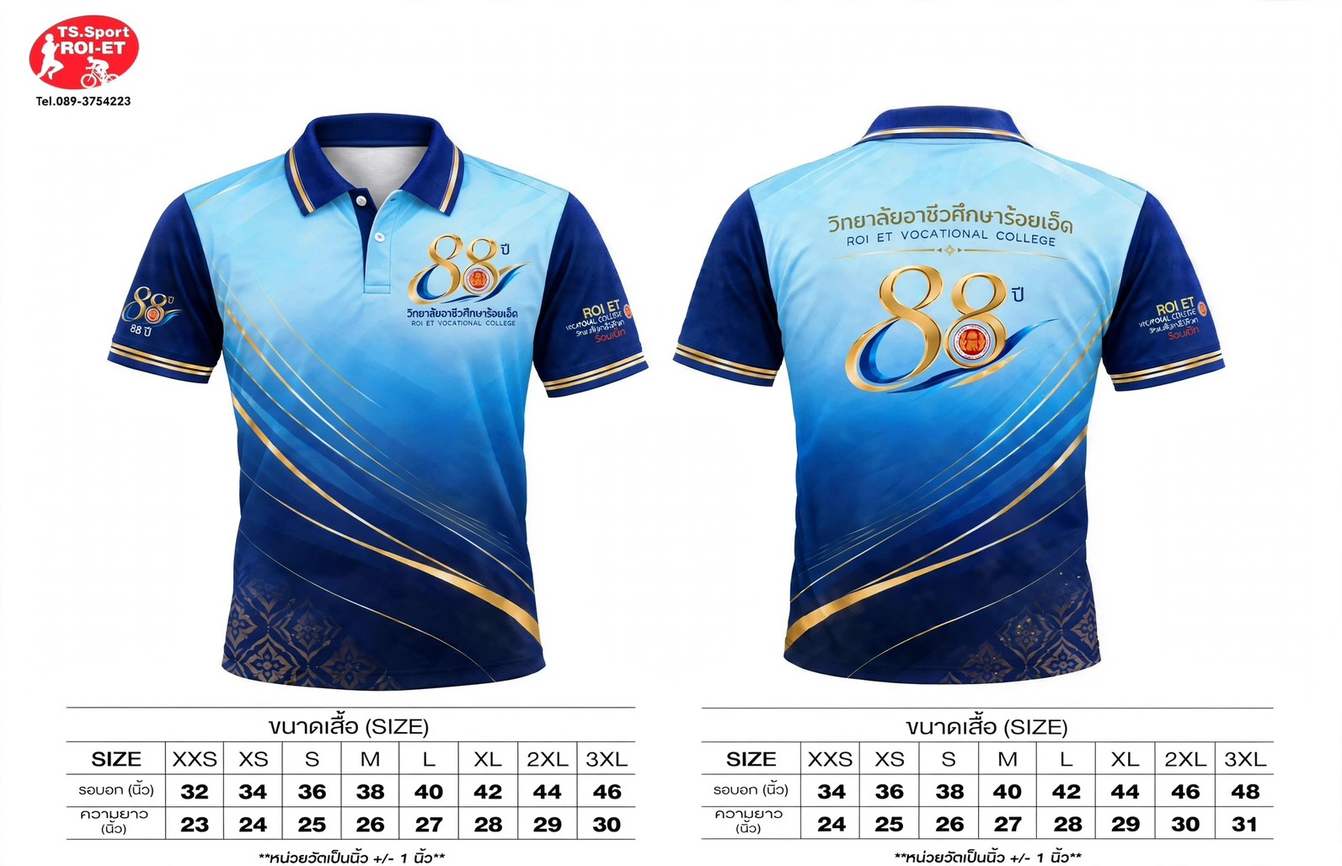
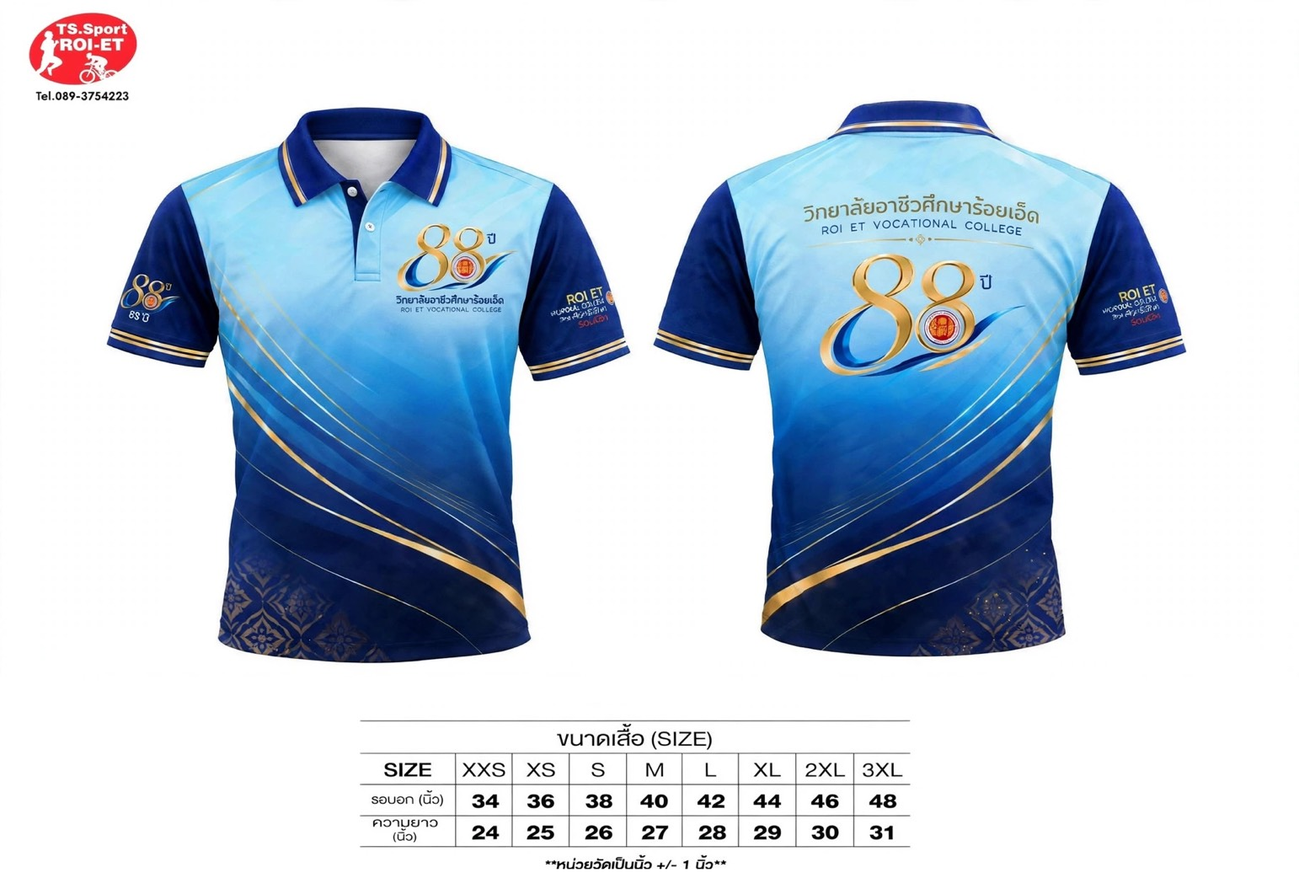
One cut for everyone: drop the men's/women's choice
The shop's new size chart has a single cut (chest 34-48, length 24-31 in).
Each shirt now has a size only; the results and Excel count shirts by size.
Size chart images updated for both designs.

Changed region(s): [[0.0623, 0.0934, 0.965, 1.0], [0.0, 0.0, 0.1245, 0.1245]]

diff --git a/app.js b/app.js
@@ -5,23 +5,19 @@ const DEFAULT_CONFIG = { votingOpen: true, allowChangeVote: true, hideResults: f
 const POLL_MS = 10000;
 
 const SIZES = ['XXS', 'XS', 'S', 'M', 'L', 'XL', '2XL', '3XL'];
-const CHART = {
-  m: { chest: [34, 36, 38, 40, 42, 44, 46, 48], len: [24, 25, 26, 27, 28, 29, 30, 31] },
-  f: { chest: [32, 34, 36, 38, 40, 42, 44, 46], len: [23, 24, 25, 26, 27, 28, 29, 30] }
-};
-const CUTS = [{ id: 'm', label: 'ทรงชาย' }, { id: 'f', label: 'ทรงหญิง' }];
+// One cut for everyone (from the shop's size chart), in inches.
+const CHART = { chest: [34, 36, 38, 40, 42, 44, 46, 48], len: [24, 25, 26, 27, 28, 29, 30, 31] };
 const DESIGNS = [
   { id: '1', label: 'แบบที่ 1', tone: 'น้ำเงินเข้ม ชายเสื้อลายไทยสีทอง', front: 'assets/d2-front.png', back: 'assets/d2-back.png', board: 'assets/d2-board.jpg', chart: 'assets/d2-size.jpg' },
   { id: '2', label: 'แบบที่ 2', tone: 'ฟ้า–ขาว เส้นทองพลิ้ว', front: 'assets/d1-front.png', back: 'assets/d1-back.png', board: 'assets/d1-board.jpg', chart: 'assets/d1-size.jpg' }
 ];
 const ORDER = ['ฝ่ายบริหาร', 'ผู้ช่วยศาสตราจารย์', 'แผนกวิชาสามัญสัมพันธ์', 'แผนกวิชาการบัญชี', 'แผนกวิชาการตลาด', 'แผนกวิชาโลจิสติกส์', 'แผนกวิชาเทคโนโลยีธุรกิจดิจิทัล', 'แผนกวิชาเทคโนโลยีสารสนเทศ', 'แผนกวิชาวิจิตรศิลป์', 'แผนกวิชาออกแบบ', 'แผนกวิชาคอมพิวเตอร์กราฟิก', 'แผนกวิชาแฟชั่นและสิ่งทอ', 'แผนกวิชาคหกรรมศาสตร์', 'แผนกวิชาอาหารและโภชนาการ', 'แผนกวิชาการโรงแรม', 'แผนกวิชาการท่องเที่ยว', 'ลูกจ้างชั่วคราว', 'นักการ', 'แม่บ้าน', 'พนักงานขับรถ', 'ยามรักษาการ'];
 const GROUP_LABEL = { 'ลูกจ้างชั่วคราว': 'เจ้าหน้าที่ธุรการ (ลูกจ้างชั่วคราว)' };
-// The size tape spans 16 inches: one inch either side of the cut's smallest and largest chest.
+// The size tape spans 16 inches: one inch either side of the smallest and largest chest.
 const TAPE_SPAN = 16;
 
 const norm = s => (s || '').replace(/\s+/g, '').toLowerCase();
 const fmtTime = t => new Date(t).toLocaleString('th-TH', { day: 'numeric', month: 'short', year: '2-digit', hour: '2-digit', minute: '2-digit' });
-const cutLabel = c => c === 'f' ? 'หญิง' : 'ชาย';
 const dLabel = id => (DESIGNS.find(d => d.id === id) || {}).label || '—';
 const MAX_EXTRAS = 9;
 const digits = s => String(s || '').replace(/\D/g, '');
@@ -29,11 +25,11 @@ const validPhone = s => /^\d{9,10}$/.test(digits(s));
 // Same rule as the server for names that are not on the staff list.
 const OTHER_DEPT = 'อื่นๆ';
 const validName = s => /^[\p{L}\p{M}][\p{L}\p{M} .()-]{3,79}$/u.test(s) && /\S\s+\S/.test(s);
-// Every shirt in a vote: the first (free) then the paid extras. Shirts have a cut and size only;
+// Every shirt in a vote: the first (free) then the paid extras. Shirts have a size only;
 // the design is the vote. Older votes stored only a quantity, so their extras repeat the first shirt.
-const extrasOf = v => v.extras || Array.from({ length: Math.max(0, (v.qty || 1) - 1) }, () => ({ cut: v.cut, size: v.size }));
-const shirtsOf = v => [{ cut: v.cut, size: v.size }, ...extrasOf(v)];
-const shirtText = x => `${cutLabel(x.cut)} ${x.size}`;
+const extrasOf = v => v.extras || Array.from({ length: Math.max(0, (v.qty || 1) - 1) }, () => ({ size: v.size }));
+const shirtsOf = v => [{ size: v.size }, ...extrasOf(v)];
+const shirtText = x => `ไซซ์ ${x.size}`;
 const XLSX_URL = 'https://cdnjs.cloudflare.com/ajax/libs/xlsx/0.18.5/xlsx.full.min.js';
 let xlsxLoading = null;
 const loadXlsx = () => xlsxLoading || (xlsxLoading = new Promise((resolve, reject) => {
@@ -45,7 +41,7 @@ const loadXlsx = () => xlsxLoading || (xlsxLoading = new Promise((resolve, rejec
 }));
 
 class App extends Component {
-  state = { tab: 'vote', staff: [], votes: [], query: '', open: false, hl: 0, person: null, phone: '', note: '', extra: false, design: null, side: 'front', cut: null, size: null, extras: [], done: null, confirm: false, confirmClear: false, clearing: false, adminMsg: '', lightbox: null, rq: '', mode: 'voted', cfg: DEFAULT_CONFIG, saving: false, error: '', names: [], prevVote: null, unlockErr: '', unlocking: false, adminKey: '', askKey: false, keyInput: '', keyError: '' };
+  state = { tab: 'vote', staff: [], votes: [], query: '', open: false, hl: 0, person: null, phone: '', note: '', extra: false, design: null, side: 'front', size: null, extras: [], done: null, confirm: false, confirmClear: false, clearing: false, adminMsg: '', lightbox: null, rq: '', mode: 'voted', cfg: DEFAULT_CONFIG, saving: false, error: '', names: [], prevVote: null, unlockErr: '', unlocking: false, adminKey: '', askKey: false, keyInput: '', keyError: '' };
 
   componentDidMount() {
     fetch('data/staff.json').then(r => r.json()).then(rows => {
@@ -147,11 +143,10 @@ class App extends Component {
     const out = [];
     st.forEach(p => {
       if (rnd() < 0.62) {
-        const cut = rnd() < 0.6 ? 'f' : 'm';
         const si = Math.min(7, Math.max(0, Math.round(3 + (rnd() + rnd() - 1) * 3)));
         const design = rnd() < 0.57 ? '2' : '1';
-        const extras = rnd() < 0.88 ? [] : [{ cut: rnd() < 0.5 ? 'm' : 'f', size: SIZES[Math.max(0, si - 1)] }];
-        out.push({ name: p.name, dept: p.dept, design, cut, size: SIZES[si], extras, qty: 1 + extras.length, phone: '', note: '', time: Date.now() - Math.floor(rnd() * 5 * 864e5) });
+        const extras = rnd() < 0.88 ? [] : [{ size: SIZES[Math.max(0, si - 1)] }];
+        out.push({ name: p.name, dept: p.dept, design, size: SIZES[si], extras, qty: 1 + extras.length, phone: '', note: '', time: Date.now() - Math.floor(rnd() * 5 * 864e5) });
       }
     });
     this._sample = out; this._sampleN = st.length; return out;
@@ -162,7 +157,7 @@ class App extends Component {
     // Someone who already voted must give their phone number before the old vote is shown (see unlockVote).
     // Clear choices that came from someone else's opened vote, or that would hide behind the phone check.
     const clear = this.state.prevVote || this.state.names.includes(p.name)
-      ? { design: null, cut: null, size: null, extras: [], note: '', extra: false } : {};
+      ? { design: null, size: null, extras: [], note: '', extra: false } : {};
     // Keep a phone number typed before the name, unless it belonged to someone else's opened vote.
     const phone = this.state.prevVote ? '' : this.state.phone;
     this.setState({ person: p, query: '', open: false, prevVote: null, phone, unlockErr: '', error: '', ...clear });
@@ -180,7 +175,7 @@ class App extends Component {
       const body = await r.json().catch(() => ({}));
       if (!r.ok) throw new Error(body.error || 'ตรวจสอบไม่สำเร็จ');
       const v = body.vote;
-      this.setState({ unlocking: false, prevVote: v, design: v.design, cut: v.cut, size: v.size, extras: extrasOf(v), note: v.note || '', extra: !!v.note });
+      this.setState({ unlocking: false, prevVote: v, design: v.design, size: v.size, extras: extrasOf(v), note: v.note || '', extra: !!v.note });
     } catch (e) {
       this.setState({ unlocking: false, unlockErr: e.message === 'Failed to fetch' ? 'เชื่อมต่อเซิร์ฟเวอร์ไม่ได้ ลองอีกครั้ง' : e.message });
     }
@@ -192,7 +187,7 @@ class App extends Component {
     try {
       const r = await fetch('api/votes', {
         method: 'POST', headers: { 'Content-Type': 'application/json' },
-        body: JSON.stringify({ name: s.person.name, design: s.design, cut: s.cut, size: s.size, extras: s.extras, phone: digits(s.phone), note: s.note.trim() })
+        body: JSON.stringify({ name: s.person.name, design: s.design, size: s.size, extras: s.extras.map(x => ({ size: x.size })), phone: digits(s.phone), note: s.note.trim() })
       });
       const body = await r.json().catch(() => ({}));
       if (!r.ok) throw new Error(body.error || 'บันทึกไม่สำเร็จ');
@@ -202,7 +197,7 @@ class App extends Component {
     }
   }
   resetForm() {
-    this.setState({ person: null, prevVote: null, unlockErr: '', query: '', phone: '', note: '', extra: false, design: null, cut: null, size: null, extras: [], done: null, side: 'front' });
+    this.setState({ person: null, prevVote: null, unlockErr: '', query: '', phone: '', note: '', extra: false, design: null, size: null, extras: [], done: null, side: 'front' });
     window.scrollTo({ top: 0, behavior: 'smooth' });
   }
   setTab(tab) {
@@ -214,10 +209,10 @@ class App extends Component {
 
   sortedVotes() { return this.shownVotes().slice().sort((a, b) => a.time - b.time); }
   exportRows() {
-    const head = ['ลำดับ', 'ชื่อ-สกุล', 'แผนก/ฝ่าย', 'แบบที่โหวต', 'ทรง', 'ไซซ์', 'จำนวนรวม (ตัว)', 'ชำระเอง (ตัว)', 'เสื้อตัวที่ชำระเอง', 'เบอร์โทร', 'หมายเหตุ', 'เวลาโหวต'];
+    const head = ['ลำดับ', 'ชื่อ-สกุล', 'แผนก/ฝ่าย', 'แบบที่โหวต', 'ไซซ์', 'จำนวนรวม (ตัว)', 'ชำระเอง (ตัว)', 'เสื้อตัวที่ชำระเอง', 'เบอร์โทร', 'หมายเหตุ', 'เวลาโหวต'];
     const rows = this.sortedVotes().map((v, i) => {
       const extras = extrasOf(v);
-      return [i + 1, v.name, v.dept, dLabel(v.design), cutLabel(v.cut), v.size, 1 + extras.length, extras.length,
+      return [i + 1, v.name, v.dept, dLabel(v.design), v.size, 1 + extras.length, extras.length,
         extras.map((x, j) => `ตัวที่ ${j + 2}: ${shirtText(x)}`).join(', '), v.phone || '', v.note || '', fmtTime(v.time)];
     });
     return [head, ...rows];
@@ -228,33 +223,27 @@ class App extends Component {
     const votes = this.shownVotes();
     const wb = XLSX.utils.book_new();
     const list = XLSX.utils.aoa_to_sheet(this.exportRows());
-    list['!cols'] = [6, 28, 30, 10, 6, 6, 12, 12, 40, 14, 30, 18].map(w => ({ wch: w }));
+    list['!cols'] = [6, 28, 30, 10, 6, 12, 12, 40, 14, 30, 18].map(w => ({ wch: w }));
     XLSX.utils.book_append_sheet(wb, list, 'รายชื่อผู้โหวต');
     // One row per shirt, for handing out shirts and collecting payment.
-    const each = [['ลำดับ', 'ชื่อ-สกุล', 'แผนก/ฝ่าย', 'ตัวที่', 'ทรง', 'ไซซ์', 'ค่าใช้จ่าย']];
-    this.sortedVotes().forEach(v => shirtsOf(v).forEach((x, j) => each.push([each.length, v.name, v.dept, j + 1, cutLabel(x.cut), x.size, j === 0 ? 'ฟรี' : 'ชำระเอง'])));
+    const each = [['ลำดับ', 'ชื่อ-สกุล', 'แผนก/ฝ่าย', 'ตัวที่', 'ไซซ์', 'ค่าใช้จ่าย']];
+    this.sortedVotes().forEach(v => shirtsOf(v).forEach((x, j) => each.push([each.length, v.name, v.dept, j + 1, x.size, j === 0 ? 'ฟรี' : 'ชำระเอง'])));
     const sheetEach = XLSX.utils.aoa_to_sheet(each);
-    sheetEach['!cols'] = [6, 28, 30, 6, 6, 6, 10].map(w => ({ wch: w }));
+    sheetEach['!cols'] = [6, 28, 30, 6, 6, 10].map(w => ({ wch: w }));
     XLSX.utils.book_append_sheet(wb, sheetEach, 'เสื้อทุกตัว');
-    // Order sheet: every shirt by cut and size.
+    // Order sheet: every shirt by size.
     const all = votes.flatMap(shirtsOf);
-    const count = (c, z) => all.filter(x => x.cut === c && x.size === z).length;
-    const order = [['ทรง', ...SIZES, 'รวม']];
-    CUTS.forEach(c => {
-      const n = SIZES.map(z => count(c.id, z));
-      order.push([c.label, ...n, n.reduce((a, b) => a + b, 0)]);
-    });
-    const sums = SIZES.map((_, k) => order.slice(1).reduce((a, r) => a + r[k + 1], 0));
-    order.push(['รวม', ...sums, sums.reduce((a, b) => a + b, 0)]);
+    const n = SIZES.map(z => all.filter(x => x.size === z).length);
+    const order = [['ไซซ์', ...SIZES, 'รวม'], ['จำนวน (ตัว)', ...n, n.reduce((a, b) => a + b, 0)]];
     const sheet2 = XLSX.utils.aoa_to_sheet(order);
-    sheet2['!cols'] = [{ wch: 8 }, ...SIZES.map(() => ({ wch: 6 })), { wch: 6 }];
+    sheet2['!cols'] = [{ wch: 12 }, ...SIZES.map(() => ({ wch: 6 })), { wch: 6 }];
     XLSX.utils.book_append_sheet(wb, sheet2, 'สรุปจำนวนสั่งผลิต');
     XLSX.writeFile(wb, 'ผลโหวตแบบเสื้อ-88ปี.xlsx');
   }
   exportCsv() {
     const esc = x => '"' + String(x == null ? '' : x).replace(/"/g, '""') + '"';
     // Keep phone numbers as text so Excel does not drop the leading zero.
-    const lines = this.exportRows().map((r, i) => r.map((x, j) => (i > 0 && j === 9 && x ? '="' + x + '"' : x)).map(esc).join(','));
+    const lines = this.exportRows().map((r, i) => r.map((x, j) => (i > 0 && j === 8 && x ? '="' + x + '"' : x)).map(esc).join(','));
     const blob = new Blob(['' + lines.join('\r\n')], { type: 'text/csv;charset=utf-8' });
     const a = document.createElement('a'); a.href = URL.createObjectURL(blob); a.download = 'ผลโหวตแบบเสื้อ-88ปี.csv';
     document.body.appendChild(a); a.click(); a.remove();
@@ -307,7 +296,7 @@ class App extends Component {
       <div class="person">
         <div><b>${s.person.name}</b><small>${s.person.dept}</small></div>
         <button class="btn btn-ghost" style="height:40px;padding:0 14px;font-size:15px" onClick=${() => this.setState(st => ({ person: null, prevVote: null, unlockErr: '', query: '', open: true,
-          ...(st.prevVote ? { phone: '', design: null, cut: null, size: null, extras: [], note: '', extra: false } : {}) }))}>เปลี่ยนชื่อ</button>
+          ...(st.prevVote ? { phone: '', design: null, size: null, extras: [], note: '', extra: false } : {}) }))}>เปลี่ยนชื่อ</button>
       </div>`;
 
     const q = norm(s.query);
@@ -351,24 +340,21 @@ class App extends Component {
       </div>`;
   }
 
-  // Cut toggle plus the size tape for one shirt. Used for shirt 1 and every extra shirt.
+  // The size tape for one shirt. Used for shirt 1 and every extra shirt.
   renderSizePicker(shirt, onChange, label) {
-    const { cut, size } = shirt;
-    const chart = CHART[cut || 'm'];
+    const { size } = shirt;
+    const chart = CHART;
     const min = chart.chest[0] - 1;
     const pos = inch => ((inch - min) / TAPE_SPAN * 100) + '%';
     const idx = SIZES.indexOf(size);
-    const readAt = cut && idx >= 0 ? chart.chest[idx] : null;
+    const readAt = idx >= 0 ? chart.chest[idx] : null;
     const nums = [];
     for (let i = min + 1; i < min + TAPE_SPAN; i += 2) nums.push(i);
     return html`
-      <div class="seg full" role="group" aria-label=${`ทรง${label}`}>
-        ${CUTS.map(c => html`<button aria-pressed=${cut === c.id} onClick=${() => onChange({ cut: c.id })}>${c.label}</button>`)}
-      </div>
-      <div class="tape ${cut ? '' : 'off'}" role="group" aria-label=${`ไซซ์${label}`}>
+      <div class="tape" role="group" aria-label=${`ไซซ์${label}`}>
         <div class="tape-marks">
           ${SIZES.map((code, i) => html`
-            <button class="size-mark" style="left:${pos(chart.chest[i])}" aria-pressed=${size === code} disabled=${!cut}
+            <button class="size-mark" style="left:${pos(chart.chest[i])}" aria-pressed=${size === code}
               aria-label=${`${code} รอบอก ${chart.chest[i]} นิ้ว`} onClick=${() => onChange({ size: code })}>${code}</button>`)}
         </div>
         <div class="tape-strip" aria-hidden="true">
@@ -376,8 +362,7 @@ class App extends Component {
           ${readAt != null && html`<span class="tape-read" style="left:${pos(readAt)}"></span>`}
         </div>
       </div>
-      <p class="reading">${!cut ? 'เลือกทรงก่อน ไซซ์จะแสดงตามรอบอกจริง'
-        : idx < 0 ? 'แตะไซซ์บนสายวัด ตัวเลขคือรอบอก (นิ้ว)'
+      <p class="reading">${idx < 0 ? 'แตะไซซ์บนสายวัด ตัวเลขคือรอบอก (นิ้ว)'
         : html`<b>${size}</b> · รอบอก <b class="mono">${chart.chest[idx]}"</b> · ยาว <b class="mono">${chart.len[idx]}"</b> <span class="hint">(±1 นิ้ว)</span>`}</p>`;
   }
 
@@ -385,9 +370,9 @@ class App extends Component {
     this.setState(st => ({ extras: st.extras.map((x, j) => (j === i ? { ...x, ...patch } : x)) }));
   }
   addExtra() {
-    // Start from the first shirt's cut and size; most people order more of the same.
+    // Start from the first shirt's size; most people order more of the same.
     this.setState(st => st.extras.length >= MAX_EXTRAS ? null
-      : { extras: st.extras.concat({ cut: st.cut, size: st.size }) });
+      : { extras: st.extras.concat({ size: st.size }) });
   }
 
   renderExtras() {
@@ -396,7 +381,7 @@ class App extends Component {
     return html`
   <section class="block">
     <div class="block-head"><h2>สั่งเสื้อเพิ่ม</h2></div>
-    <p class="hint">ในกรณีที่สั่งมากกว่า 1 ตัว ท่านจะต้องชำระเงินเองในตัวถัดไป เลือกทรงและไซซ์ของแต่ละตัว</p>
+    <p class="hint">ในกรณีที่สั่งมากกว่า 1 ตัว ท่านจะต้องชำระเงินเองในตัวถัดไป เลือกไซซ์ของแต่ละตัว</p>
     ${s.extras.map((x, i) => html`
       <div class="extra" key=${i}>
         <div class="extra-head">
@@ -423,15 +408,14 @@ class App extends Component {
     if (!s.person) missing.push('ชื่อ');
     if (!needsUnlock && !validPhone(s.phone)) missing.push('เบอร์โทร');
     if (!s.design) missing.push('แบบเสื้อ');
-    if (!s.cut) missing.push('ทรง');
     if (!s.size) missing.push('ไซซ์');
-    s.extras.forEach((x, i) => { if (!x.cut || !x.size) missing.push(`ตัวที่ ${i + 2}`); });
+    s.extras.forEach((x, i) => { if (!x.size) missing.push(`ตัวที่ ${i + 2}`); });
     const canSubmit = !missing.length && !locked && !s.saving;
     const hint = s.error || (locked ? (!isOpen ? 'ปิดรับโหวตแล้ว' : !allowChange ? 'ท่านโหวตแล้ว แก้ไขไม่ได้' : 'ใส่เบอร์โทรที่ใช้ตอนโหวตเพื่อแก้ไข')
       : missing.length ? 'ยังขาด: ' + missing.join(', ')
       : prev ? 'จะบันทึกทับโหวตเดิม' : 'ครบแล้ว กดยืนยันได้');
     const hintClass = s.error || locked ? 'err' : missing.length ? '' : 'ok';
-    const summary = ([s.design && dLabel(s.design), s.cut && s.size && `${cutLabel(s.cut)} ${s.size}`].filter(Boolean).join(' · ') || 'ยังไม่ได้เลือกเสื้อ')
+    const summary = ([s.design && dLabel(s.design), s.size && `ไซซ์ ${s.size}`].filter(Boolean).join(' · ') || 'ยังไม่ได้เลือกเสื้อ')
       + (s.extras.length ? ` + เพิ่ม ${s.extras.length} ตัว` : '');
     const chartFor = s.design || '1';
 
@@ -439,7 +423,7 @@ class App extends Component {
 <section class="wrap intro">
   <img class="intro-logo" src="assets/logo-88.png" alt="ตราสัญลักษณ์ 88 ปี วิทยาลัยอาชีวศึกษาร้อยเอ็ด" />
   <h1>เลือกเสื้อที่ระลึก 88 ปี</h1>
-  <p>เลือกแบบที่ชอบ แล้วระบุทรงและไซซ์ของท่าน ท่านละ 1 สิทธิ์</p>
+  <p>เลือกแบบที่ชอบ แล้วระบุไซซ์ของท่าน ท่านละ 1 สิทธิ์</p>
   <p class="count">${this.countText(s.names, total)}</p>
 </section>
 
@@ -491,7 +475,7 @@ class App extends Component {
 
   <section class="block">
     <div class="block-head">
-      <h2>ทรงและไซซ์ ตัวที่ 1 <span class="req">*</span></h2>
+      <h2>ไซซ์ ตัวที่ 1 <span class="req">*</span></h2>
       <button class="text-btn" onClick=${() => this.setState({ lightbox: { id: chartFor, kind: 'chart' } })}>ตารางไซซ์</button>
     </div>
     ${this.renderSizePicker(s, patch => this.setState(patch), ' ตัวที่ 1')}
@@ -548,11 +532,9 @@ class App extends Component {
     const counts = DESIGNS.map(d => votes.filter(v => v.design === d.id).length);
     const maxC = Math.max(...counts), tie = counts.every(c => c === counts[0]);
 
-    // Shirt counts include every shirt ordered, filtered by the design chosen above the table.
+    // Shirt counts include every shirt ordered.
     const shirts = votes.flatMap(shirtsOf);
-    const sumBy = (cut, z) => shirts.filter(x => (!cut || x.cut === cut) && x.size === z).length;
-    const sizeRows = SIZES.map(z => ({ z, m: sumBy('m', z), f: sumBy('f', z), all: sumBy(null, z) }));
-    const tot = k => sizeRows.reduce((a, r) => a + r[k], 0);
+    const sizeRows = SIZES.map(z => ({ z, n: shirts.filter(x => x.size === z).length }));
     const cell = n => html`<td class=${n ? 'mono' : 'mono zero'}>${n || '–'}</td>`;
 
     const votedNames = new Set(votes.map(v => v.name));
@@ -610,9 +592,9 @@ class App extends Component {
       <h2>จำนวนเสื้อที่ต้องสั่งผลิต</h2>
       <p class="hint">นับทุกตัว รวมตัวที่ชำระเอง</p>
       <table class="sizes">
-        <thead><tr><th>ไซซ์</th><th>ชาย</th><th>หญิง</th><th>รวม</th></tr></thead>
-        <tbody>${sizeRows.map(r => html`<tr><td>${r.z}</td>${cell(r.m)}${cell(r.f)}${cell(r.all)}</tr>`)}</tbody>
-        <tfoot><tr><td>รวม</td><td class="mono">${tot('m')}</td><td class="mono">${tot('f')}</td><td class="mono">${tot('all')}</td></tr></tfoot>
+        <thead><tr><th>ไซซ์</th><th>รอบอก</th><th>จำนวน (ตัว)</th></tr></thead>
+        <tbody>${sizeRows.map((r, i) => html`<tr><td>${r.z}</td><td class="mono" style="color:var(--muted)">${CHART.chest[i]}"</td>${cell(r.n)}</tr>`)}</tbody>
+        <tfoot><tr><td>รวม</td><td></td><td class="mono">${shirts.length}</td></tr></tfoot>
       </table>
     </section>
 
@@ -658,7 +640,7 @@ class App extends Component {
   // Last check before saving: everything the vote will record, with a way back to edit.
   renderConfirm() {
     const s = this.state;
-    const shirts = [{ cut: s.cut, size: s.size }, ...s.extras];
+    const shirts = [{ size: s.size }, ...s.extras];
     const editing = !!(s.prevVote && s.person && s.prevVote.name === s.person.name);
     const close = () => { if (!s.saving) this.setState({ confirm: false }); };
     return html`

diff --git a/server.js b/server.js
@@ -139,16 +139,13 @@ async function api(req, res, url) {
     // A first name and a surname, letters only.
     if (!known && !(/^[\p{L}\p{M}][\p{L}\p{M} .()-]{3,79}$/u.test(name) && /\S\s+\S/.test(name))) return send(res, 400, { error: 'กรอกชื่อและนามสกุลให้ถูกต้อง' });
     if (!['1', '2'].includes(b.design)) return send(res, 400, { error: 'กรุณาเลือกแบบเสื้อ' });
-    if (!['m', 'f'].includes(b.cut)) return send(res, 400, { error: 'กรุณาเลือกทรงเสื้อ' });
     if (!SIZES.includes(b.size)) return send(res, 400, { error: 'กรุณาเลือกไซซ์' });
-    // Shirts after the first are paid by the voter; each has its own cut and size.
+    // Shirts after the first are paid by the voter; each has its own size (one cut for everyone).
     // The design is the vote, so it is chosen once and does not apply per shirt.
     const extras = Array.isArray(b.extras) ? b.extras : [];
     if (extras.length > 9) return send(res, 400, { error: 'สั่งได้สูงสุด 10 ตัว' });
     for (const [i, x] of extras.entries()) {
-      if (!x || !['m', 'f'].includes(x.cut) || !SIZES.includes(x.size)) {
-        return send(res, 400, { error: `เลือกทรงและไซซ์ของตัวที่ ${i + 2} ให้ครบ` });
-      }
+      if (!x || !SIZES.includes(x.size)) return send(res, 400, { error: `เลือกไซซ์ของตัวที่ ${i + 2}` });
     }
     if (!validPhone(b.phone)) return send(res, 400, { error: 'กรอกเบอร์โทร 9–10 หลัก' });
     const prev = votes.find(v => v.name === name);
@@ -158,8 +155,8 @@ async function api(req, res, url) {
       if (bad) return send(res, bad.status, { error: bad.error });
     }
     const vote = {
-      name, dept: known ? staffByName.get(name) : OTHER_DEPT, ...(known ? {} : { other: true }), design: b.design, cut: b.cut, size: b.size,
-      extras: extras.map(x => ({ cut: x.cut, size: x.size })),
+      name, dept: known ? staffByName.get(name) : OTHER_DEPT, ...(known ? {} : { other: true }), design: b.design, size: b.size,
+      extras: extras.map(x => ({ size: x.size })),
       qty: 1 + extras.length,
       phone: digits(b.phone),
       note: String(b.note || '').trim().slice(0, 500),

diff --git a/README.md b/README.md
@@ -1,6 +1,6 @@
 # ระบบโหวตเลือกแบบเสื้อที่ระลึก 88 ปี
 
-Voting page for the Roi Et Vocational College 88th-anniversary shirt. Staff pick their name, give a phone number, vote for a design, and give the cut and size of each shirt they order (the first is free, extras are paid). The phone number is that person's code for editing the vote later; wrong guesses are limited to 5 per 15 minutes. Votes from every device are saved on the server.
+Voting page for the Roi Et Vocational College 88th-anniversary shirt. Staff pick their name, give a phone number, vote for a design, and give the size of each shirt they order (one cut for everyone) (the first is free, extras are paid). The phone number is that person's code for editing the vote later; wrong guesses are limited to 5 per 15 minutes. Votes from every device are saved on the server.
 
 Live at https://rvc88.tuatorton.com
 
